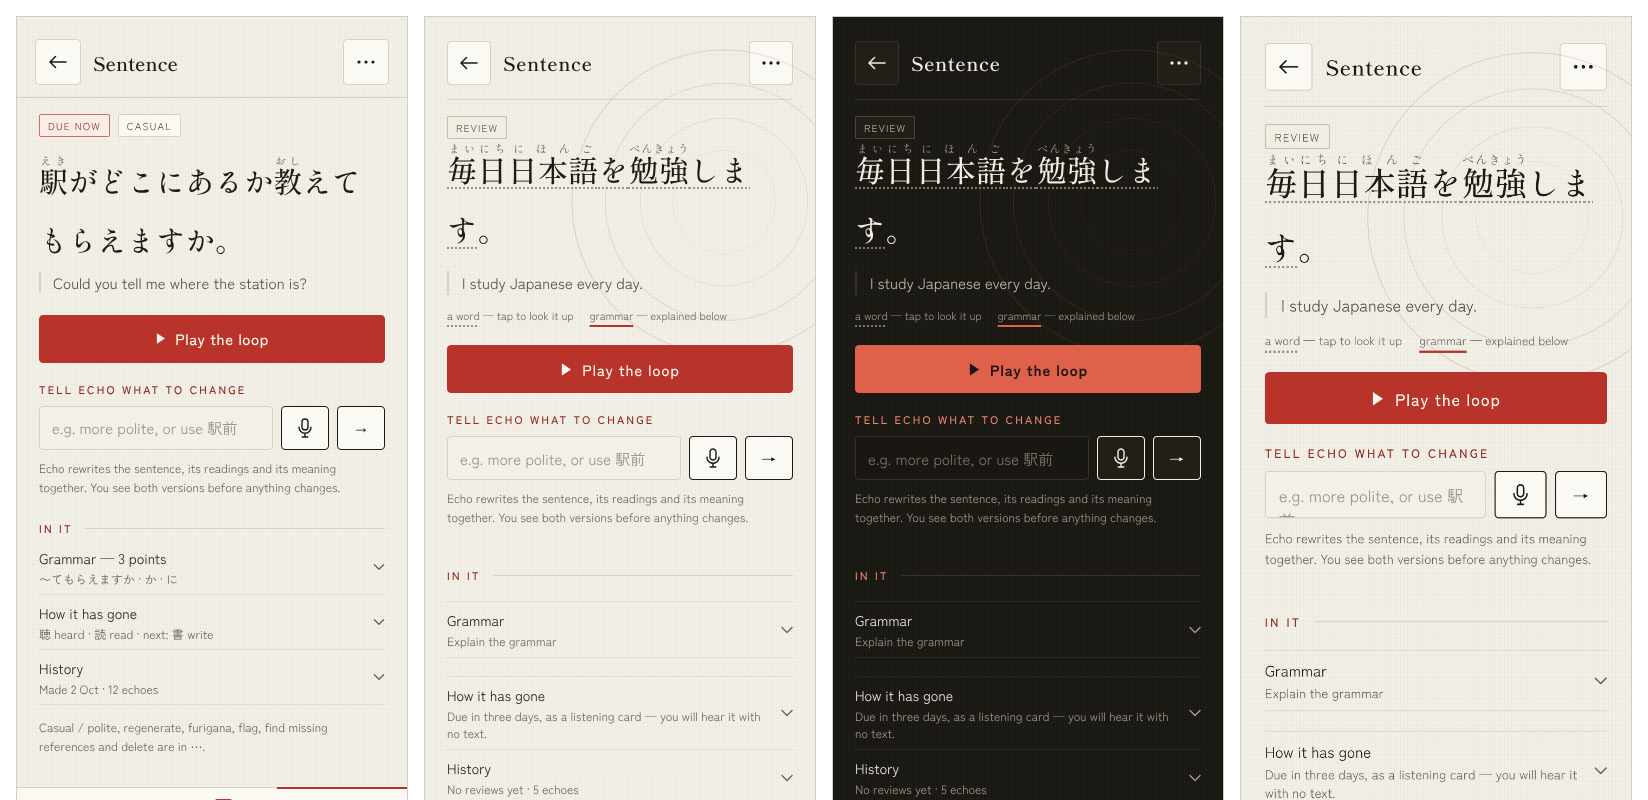
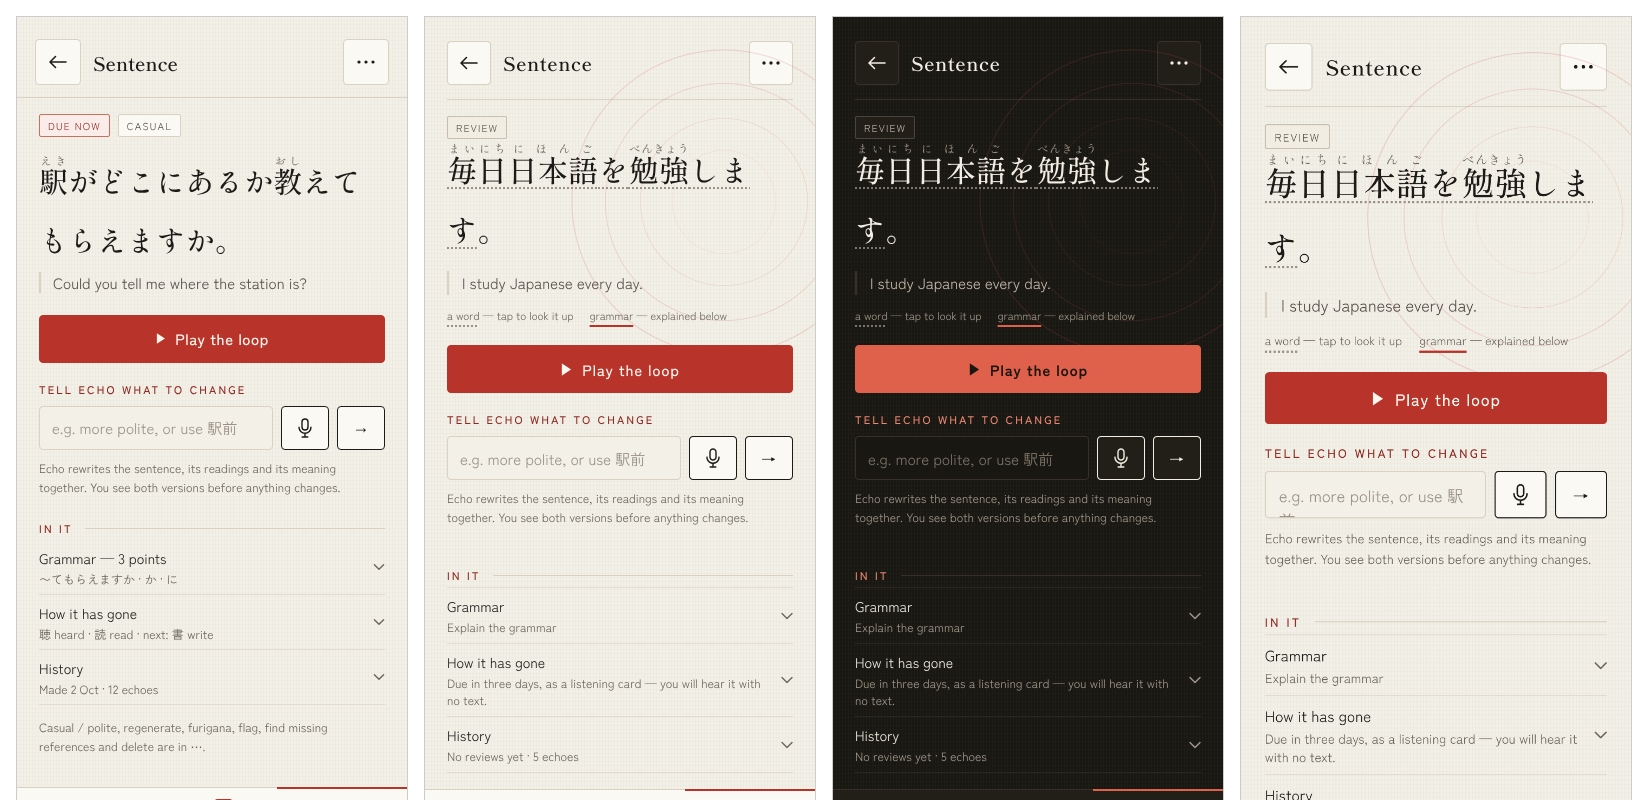
style(sentence): In it rows close up; the tab bar stays on the sentence page and Echo's notes
SentenceFocus and Notes both draw the tab bar under a pushed screen.

Claude-Session: https://claude.ai/code/session_01FG4otwNLNNgvm2f5kTNcdq

diff --git a/app.js b/app.js
@@ -370,7 +370,7 @@ const isWide=()=>wide.matches;
 const VIEW_TITLES={review:"Review",library:"Library"};
 function showView(name,{route=true}={}){if(name==="map"&&targetLang()!=="ja")name="library";if(name!=="radio")stopRadio();if(name!=="practice")resetSession();if(name!=="session")stopReviewListening();speechSynthesis.cancel();
   $("#main-view").hidden=name!=="practice";$("#review-home").hidden=name!=="review";$("#history-view").hidden=!(name==="library"||(name==="sentence"&&isWide()));$("#review-view").hidden=name!=="session";$("#sentence-view").hidden=name!=="sentence";$("#onboard-view").hidden=name!=="onboard";$("#setup-view").hidden=name!=="setup";$("#map-view").hidden=name!=="map";$("#mora-view").hidden=name!=="mora";$("#radio-view").hidden=name!=="radio";$("#notes-view").hidden=name!=="notes";$("#search-view").hidden=name!=="search";$("#settings-view").hidden=name!=="settings";if(name!=="settings")settingsStack=[];$("#settings-nav")?.toggleAttribute("aria-current",name==="settings");if(name!=="settings"&&$("#ai-show-key")?.getAttribute("aria-pressed")==="true")$("#ai-show-key").click();
-  const solo=name==="onboard"||name==="setup"||((name==="session"||name==="sentence"||name==="map"||name==="mora"||name==="radio"||name==="notes"||name==="settings")&&!isWide());document.querySelector("header").hidden=solo||(name==="search"&&!isWide())||(name==="practice"&&(discussionMode||readingMode||extractMode)&&!isWide());$("#tabs").hidden=solo;
+  const solo=name==="onboard"||name==="setup"||((name==="session"||name==="sentence"||name==="map"||name==="mora"||name==="radio"||name==="notes"||name==="settings")&&!isWide());document.querySelector("header").hidden=solo||(name==="search"&&!isWide())||(name==="practice"&&(discussionMode||readingMode||extractMode)&&!isWide());$("#tabs").hidden=solo&&name!=="sentence"&&name!=="notes";
   $("#view-title").textContent=VIEW_TITLES[name]||"";$("#view-title").hidden=!VIEW_TITLES[name];document.querySelector(".brand").hidden=!!VIEW_TITLES[name];
   $("#discussion-play").onclick=playDiscussion;$("#discussion-english").onchange=renderDiscussion;$("#discussion-new").onclick=()=>{discussionLoop.stop();discussionTurns=[];discussionScenario="";renderDiscussion();$("#english-input").value="";$("#english-input").focus()};$("#reading-furigana").onchange=renderReading;$("#reading-english").onchange=renderReading;$("#reading-echo").onclick=playReading;
 for(const tab of document.querySelectorAll(".tab[data-view]")){const on=tab.dataset.view===name||((name==="session"||name==="radio")&&tab.dataset.view==="review")||((name==="sentence"||name==="map"||name==="notes")&&tab.dataset.view==="library");tab.classList.toggle("current",on);tab.setAttribute("aria-current",on?"page":"false")}

diff --git a/styles.css b/styles.css
@@ -1761,3 +1761,7 @@ header .header-search+#settings-button{margin-left:-4px}
 #sentence-view .sentence-columns{margin-top:0}
 .sentence-menu-note{margin:12px 0 0}
 .menu-glyph{width:22px;flex-shrink:0;text-align:center;font-family:var(--display);font-size:16px;color:var(--seal-deep)}
+#sentence-view .sentence-main,#sentence-view .sentence-aside{margin:0;padding:0;border:0}
+#sentence-view .sentence-main>.collapse-row{border-bottom:1px solid var(--rule)}
+#sentence-view .sentence-columns .collapse-row{margin-top:0;border-top:0}
+#sentence-view .sentence-columns #sentence-grammar-block{border-top:1px solid var(--rule)}
